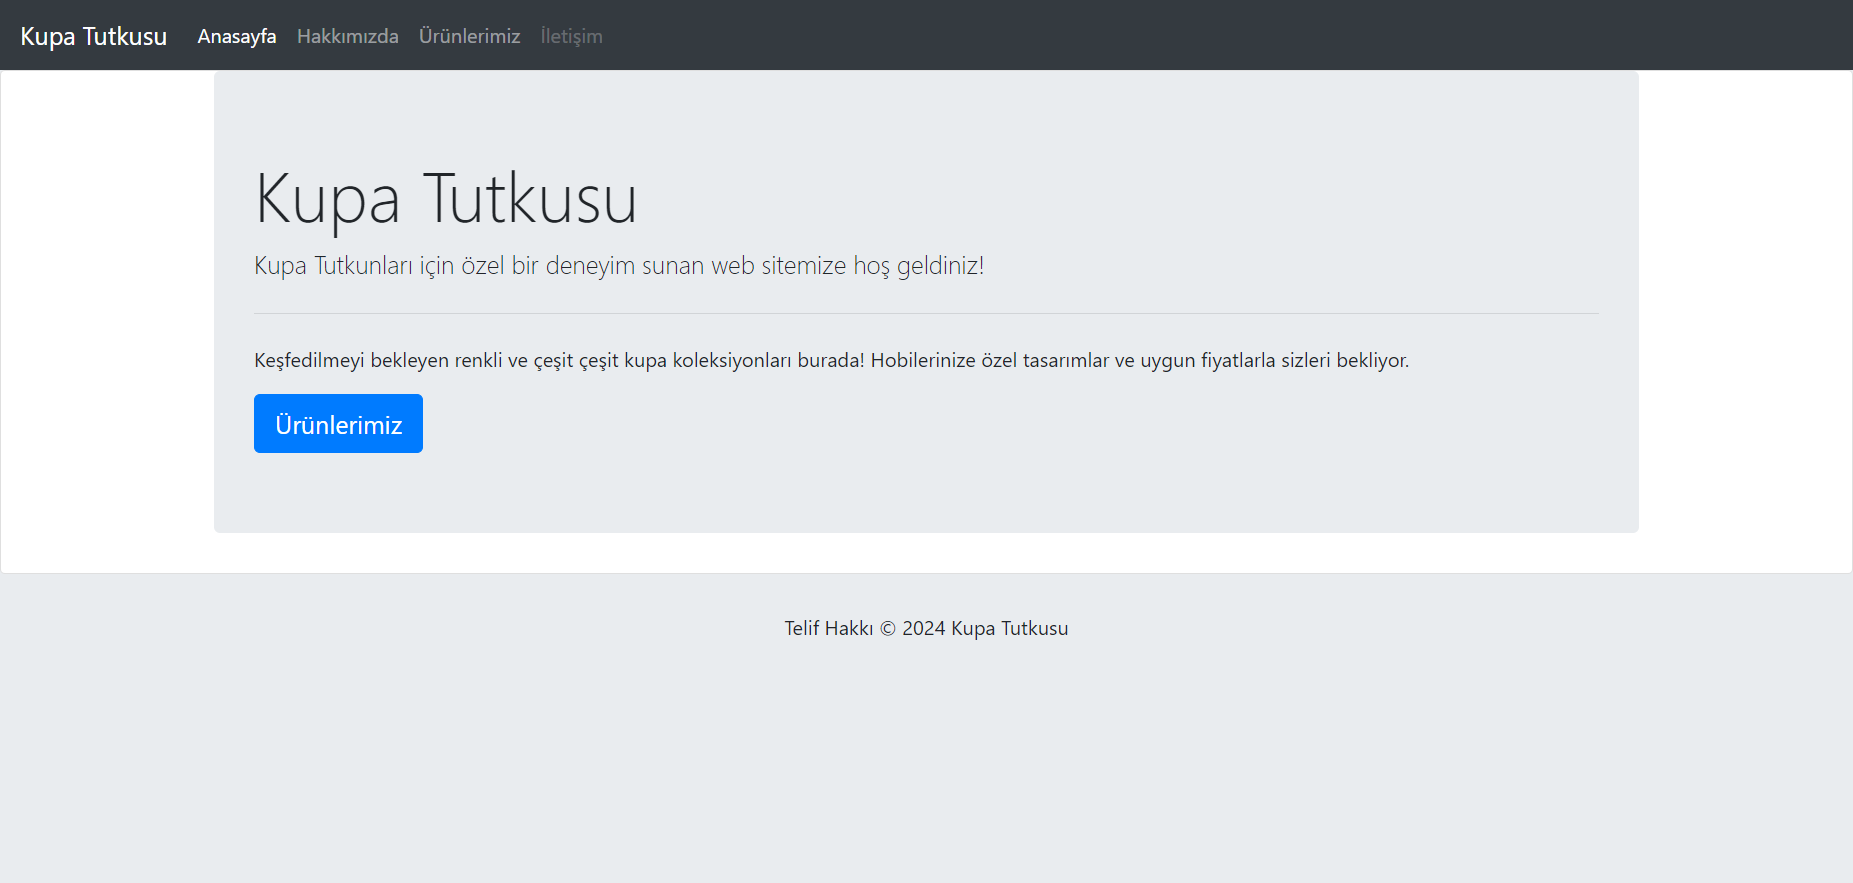
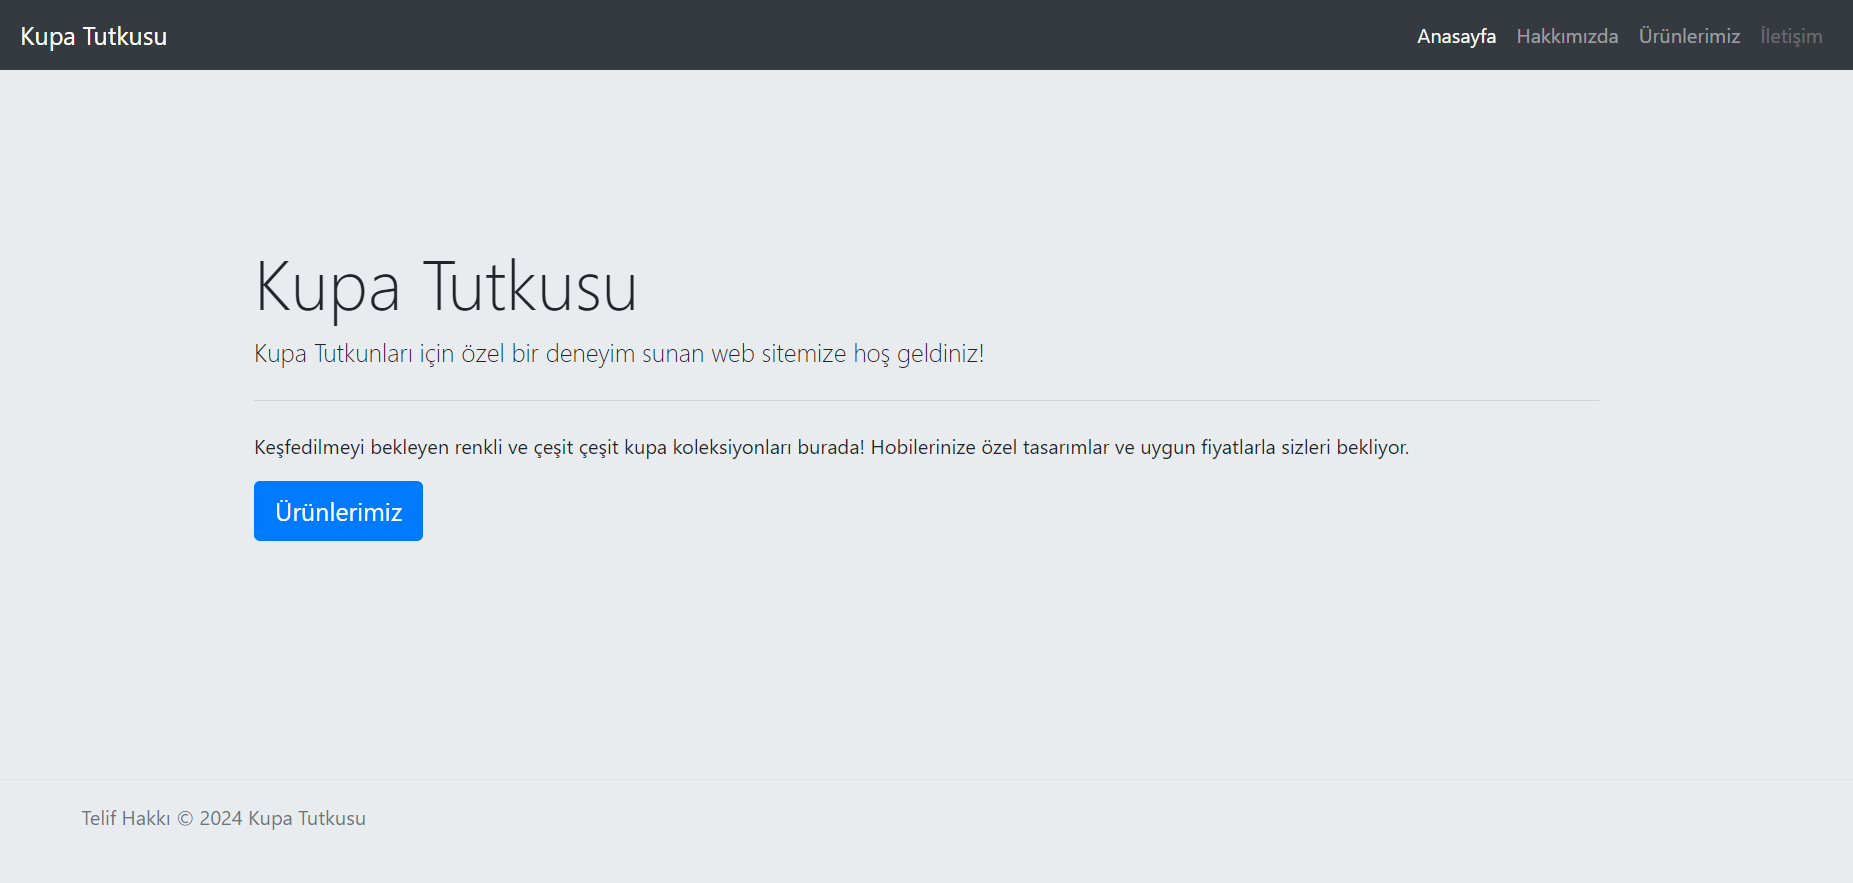
güncel

diff --git a/Week-3/Odev-1(Bootstrap)/urun.html b/Week-3/Odev-1(Bootstrap)/urun.html
@@ -19,7 +19,7 @@
           <span class="navbar-toggler-icon"></span>
         </button>
         <div class="collapse navbar-collapse" id="navbarNav">
-          <ul class="navbar-nav">
+          <ul class="navbar-nav ml-auto">
             <li class="nav-item active">
               <a class="nav-link" href="anasayfa.html">Anasayfa <span class="sr-only">(current)</span></a>
             </li>
@@ -47,9 +47,10 @@
         <div class="row">
           
           <!-- Donut Kupa -->
+          <!-- style="height: 200px; object-fit: cover;" -->
           <div class="col-sm">
             <div class="card bg-light" style="width: 18rem;">
-              <img src="https://cdn03.ciceksepeti.com/cicek/kcm85630097-1/M/donut-tasarimli-kupa-bardak-kcm85630097-1-0b6a97ea521b4f0e9c0d0e0ec94b4564.jpg" class="card-img-top" alt="Donut Kupa">
+              <img style="height: 300px; object-fit: cover;" src="https://cdn03.ciceksepeti.com/cicek/kcm85630097-1/M/donut-tasarimli-kupa-bardak-kcm85630097-1-0b6a97ea521b4f0e9c0d0e0ec94b4564.jpg" class="card-img-top" alt="Donut Kupa">
               <div class="card-body">
                 <h5 class="card-title">Donut Kupa</h5>
                 <p class="card-text">Lezzet dolu bir mola için donut kupamızla gününüzü tatlandırın! Her ısırıkta mutluluğu hissedin.</p>
@@ -60,7 +61,7 @@
           <!-- Kurabiye Canavarı -->
           <div class="col-sm mb-3">
             <div class="card" style="width: 18rem;">
-              <img src="https://mkavlakci.com/wp-content/uploads/2015/07/creativecupsmugspart2131_d.jpg" class="card-img-top" alt="Kurabiye Canavarı">
+              <img style="height: 250px; object-fit: cover;" src="https://mkavlakci.com/wp-content/uploads/2015/07/creativecupsmugspart2131_d.jpg" class="card-img-top" alt="Kurabiye Canavarı">
               <div class="card-body">
                 <h5 class="card-title">Kurabiye Canavarı</h5>
                 <p class="card-text">Kurabiye canavarı kupa ile her yudumda tatlı bir serüvene hazır olun! Lezzet dolu anların anahtarı artık sizin elinizde.</p>
@@ -71,7 +72,7 @@
           <!-- Yangın söndürücü -->
           <div class="col-sm mb-3">
             <div class="card" style="width: 18rem;">
-              <img src="https://files.bundesign.com/dosyalar/2023/12/yangin-sondurucu-kupa-bardak2-270x270.jpg" class="card-img-top" alt="Kurabiye Canavarı">
+              <img style="height: 250px; object-fit: cover;" src="https://files.bundesign.com/dosyalar/2023/12/yangin-sondurucu-kupa-bardak2-270x270.jpg" class="card-img-top" alt="Kurabiye Canavarı">
               <div class="card-body">
                 <h5 class="card-title">Yangın Söndürücü Kupa</h5>
                 <p class="card-text">Yangın söndürücü kupa ile sıradan bir kahve molanızı ateşli bir deneyime dönüştürün! Lezzetin yangınını söndürmek için hazır olun.</p>
@@ -83,7 +84,7 @@
           <!-- mb-3: margin bottom-3 -->
           <div class="col-sm mb-3">
             <div class="card" style="width: 18rem;">
-              <img src="https://encrypted-tbn0.gstatic.com/images?q=tbn:ANd9GcQXYoZuDnawbSrdNxRq4Zg2UAaahwlsIejIZWTvhpC-TdcZZzDnsHiTd_tm0jSFKOF22Hg&usqp=CAU" class="card-img-top" alt="gamer kupa">
+              <img style="height: 300px; object-fit: cover;" src="https://encrypted-tbn0.gstatic.com/images?q=tbn:ANd9GcQXYoZuDnawbSrdNxRq4Zg2UAaahwlsIejIZWTvhpC-TdcZZzDnsHiTd_tm0jSFKOF22Hg&usqp=CAU" class="card-img-top" alt="gamer kupa">
               <div class="card-body">
                 <h5 class="card-title">Gamer Tutkunlarının Kupası</h5>
                 <p class="card-text">Gamer kupa ile oyun zevkinizi bir üst seviyeye taşıyın! Kupa başında kazanma stratejilerinizi planlayın ve zaferin tadını çıkarın.</p>
@@ -106,7 +107,7 @@
           <!-- .col-4 -->
           <div class="col-sm">
             <div class="card" style="width: 18rem;">
-              <img src="https://productimages.hepsiburada.net/s/507/300-443/110000561552977.jpg" class="card-img-top" alt="müzik kupa">
+              <img style="height: 250px; object-fit: cover;" src="https://productimages.hepsiburada.net/s/507/300-443/110000561552977.jpg" class="card-img-top" alt="müzik kupa">
               <div class="card-body">
                 <h5 class="card-title">Müzik Tutkunlarının Kupası</h5>
                 <p class="card-text">Müzik ve notalarla dolu bir kupa ile kahve keyfinize harmoni katın! Her yudumda müziğin ritmiyle dans edin ve melodilerle dolu bir günün tadını çıkarın.</p>
@@ -118,7 +119,7 @@
           <!-- fotoğrafçı -->
           <div class="col-sm">
             <div class="card" style="width: 18rem;">
-              <img src="https://productimages.hepsiburada.net/s/12/375-375/9154085912626.jpg" class="card-img-top" alt="objektif kupa">
+              <img  style="height: 250px; object-fit: cover;" src="https://productimages.hepsiburada.net/s/12/375-375/9154085912626.jpg" class="card-img-top" alt="objektif kupa">
               <div class="card-body">
                 <h5 class="card-title">Fotoğraf Tutkunlarının Kupası</h5>
                 <p class="card-text">Kamera objektifi şeklindeki kupa ile her kahve molanızı bir fotoğrafçı keşfi haline getirin! Her yudumda gerçek bir sanat eseri oluşturun ve kahve keyfinizi ölümsüzleştirin.</p>

diff --git a/Week-3/Odev-1(Bootstrap)/anasayfa.html b/Week-3/Odev-1(Bootstrap)/anasayfa.html
@@ -19,7 +19,7 @@
           <span class="navbar-toggler-icon"></span>
         </button>
         <div class="collapse navbar-collapse" id="navbarNav">
-          <ul class="navbar-nav">
+          <ul class="navbar-nav ml-auto">
             <li class="nav-item active">
               <a class="nav-link" href="anasayfa.html">Anasayfa <span class="sr-only">(current)</span></a>
             </li>
@@ -35,13 +35,7 @@
           </ul>
         </div>
       </nav>
-    <header>
-    <!-- Optional JavaScript; choose one of the two! -->
 
-    <!-- Option 1: jQuery and Bootstrap Bundle (includes Popper) -->
-    <script src="https://code.jquery.com/jquery-3.5.1.slim.min.js" integrity="sha384-DfXdz2htPH0lsSSs5nCTpuj/zy4C+OGpamoFVy38MVBnE+IbbVYUew+OrCXaRkfj" crossorigin="anonymous"></script>
-    <script src="https://cdn.jsdelivr.net/npm/bootstrap@4.5.3/dist/js/bootstrap.bundle.min.js" integrity="sha384-ho+j7jyWK8fNQe+A12Hb8AhRq26LrZ/JpcUGGOn+Y7RsweNrtN/tE3MoK7ZeZDyx" crossorigin="anonymous"></script>
-  <div class="card">
     <!-- jumbotron -->
     <div class="jumbotron container">
         <h1 class="display-4">Kupa Tutkusu </h1>
@@ -49,9 +43,7 @@
         <hr class="my-4">
         <p>Keşfedilmeyi bekleyen renkli ve çeşit çeşit kupa koleksiyonları burada! Hobilerinize özel tasarımlar ve uygun fiyatlarla sizleri bekliyor.</p>
         <a class="btn btn-primary btn-lg" href="urun.html" role="button">Ürünlerimiz</a>
-    </div>
   </div>
-  </body>
   <footer class="d-flex flex-wrap justify-content-between align-items-center py-3 my-4 border-top">
     <div class="col-md-4 d-flex align-items-center">
       <a href="/" class="mb-3 me-2 mb-md-0 text-muted text-decoration-none lh-1">
@@ -60,4 +52,10 @@
       <span class="mb-3 mb-md-0 text-muted">Telif Hakkı © 2024 Kupa Tutkusu</span>
     </div>
   </footer>
+      <!-- Optional JavaScript; choose one of the two! -->
+
+    <!-- Option 1: jQuery and Bootstrap Bundle (includes Popper) -->
+    <script src="https://code.jquery.com/jquery-3.5.1.slim.min.js" integrity="sha384-DfXdz2htPH0lsSSs5nCTpuj/zy4C+OGpamoFVy38MVBnE+IbbVYUew+OrCXaRkfj" crossorigin="anonymous"></script>
+    <script src="https://cdn.jsdelivr.net/npm/bootstrap@4.5.3/dist/js/bootstrap.bundle.min.js" integrity="sha384-ho+j7jyWK8fNQe+A12Hb8AhRq26LrZ/JpcUGGOn+Y7RsweNrtN/tE3MoK7ZeZDyx" crossorigin="anonymous"></script>
+  </body>
 </html>

diff --git a/Week-3/Odev-1(Bootstrap)/hakkımızda.html b/Week-3/Odev-1(Bootstrap)/hakkımızda.html
@@ -19,7 +19,7 @@
           <span class="navbar-toggler-icon"></span>
         </button>
         <div class="collapse navbar-collapse" id="navbarNav">
-          <ul class="navbar-nav">
+          <ul class="navbar-nav ml-auto">
             <li class="nav-item active">
               <a class="nav-link" href="anasayfa.html">Anasayfa <span class="sr-only">(current)</span></a>
             </li>
@@ -35,7 +35,7 @@
           </ul>
         </div>
       </nav>
-    <header>
+    
     <!-- Optional JavaScript; choose one of the two! -->
 
     <!-- Option 1: jQuery and Bootstrap Bundle (includes Popper) -->

diff --git a/Week-3/Odev-1(Bootstrap)/iletisim.html b/Week-3/Odev-1(Bootstrap)/iletisim.html
@@ -19,7 +19,8 @@
           <span class="navbar-toggler-icon"></span>
         </button>
         <div class="collapse navbar-collapse" id="navbarNav">
-          <ul class="navbar-nav">
+          <!-- ml-auto: ana sayfa kısmını sağa alır -->
+          <ul class="navbar-nav ml-auto">
             <li class="nav-item active">
               <a class="nav-link" href="anasayfa.html">Anasayfa <span class="sr-only">(current)</span></a>
             </li>

diff --git a/Week-3/Odev-1(Bootstrap)/style.css b/Week-3/Odev-1(Bootstrap)/style.css
@@ -1,5 +1,9 @@
 body{
     background-color: #E9ECEF;
+    min-height: 100vh;
+    display: flex;
+    flex-direction: column;
+    justify-content: space-between;
 }
 h2{
   color: #5F264A;
